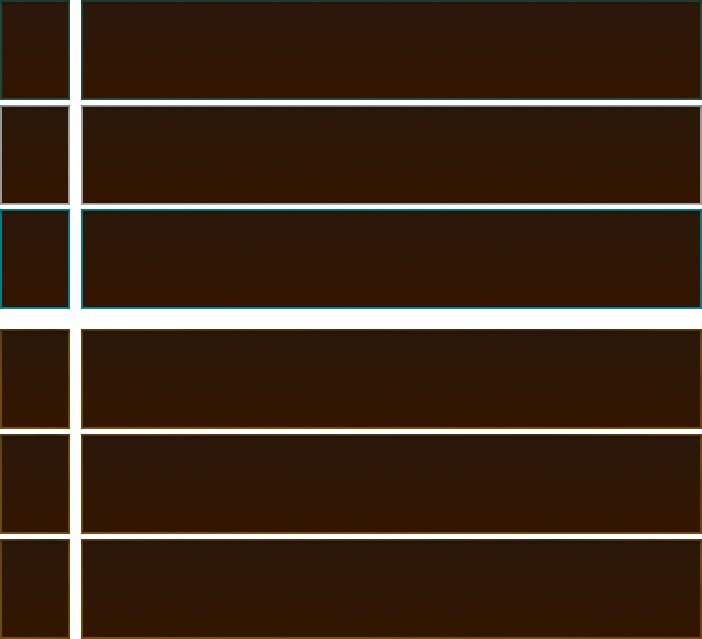
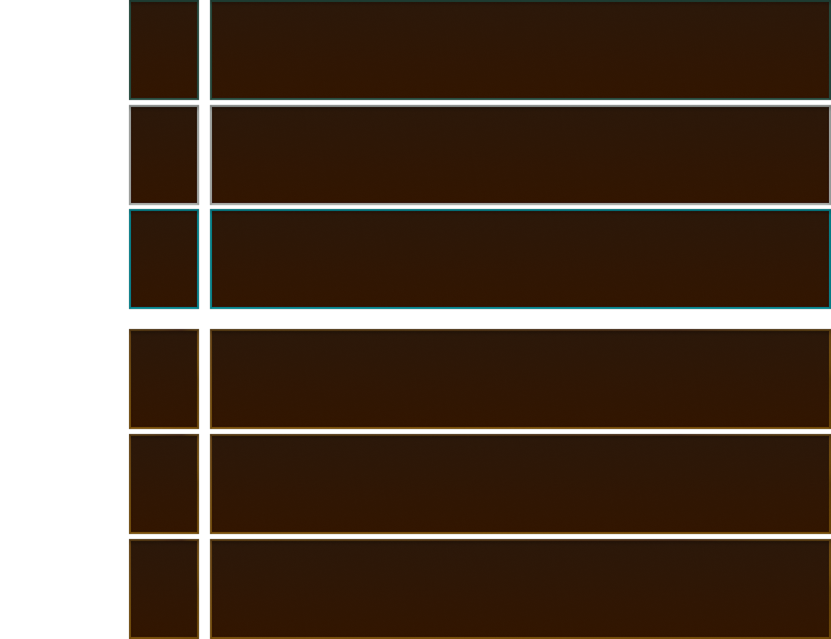
Добавил поддержку погод и маркеров урона за каждый ряд

diff --git a/src/pages/styles.css b/src/pages/styles.css
@@ -102,33 +102,33 @@ body {
     gap: 50px;
 }
 
-.gameField2 {
+
+.gameField3 {
     display: grid;
-    grid-template-columns: 1fr max-content 1fr max-content 1fr;
-    grid-template-rows: 36fr max-content 77fr max-content 77fr max-content 93fr max-content 77fr max-content 77fr max-content 36fr;
-    width: 128px;
+    grid-template-columns: 19px 24px 12px 54px 20px 70px 11px 1fr;
+    grid-template-rows: 100px 5px 100px 5px 100px 20px 100px 5px 100px 5px 100px;
+    background-image: url("../assets/content/BattleContent2.png");
+    width: 831px;
     height: 639px;
     grid-template-areas:
-    ". ........ . ....... ."
-    ". weather1 . marker1 ."
-    ". ........ . ....... ."
-    ". weather2 . marker2 ."
-    ". ........ . ....... ."
-    ". weather3 . marker3 ."
-    ". ........ . ....... ."
-    ". weather4 . marker4 ."
-    ". ........ . ....... ."
-    ". weather5 . marker5 ."
-    ". ........ . ....... ."
-    ". weather6 . marker6 ."
-    ". ........ . ....... .";
+    ". weather1 . marker1 . leader1 . cards1"
+    ". ........ . ....... . ....... . ......"
+    ". weather2 . marker2 . leader2 . cards2"
+    ". ........ . ....... . ....... . ......"
+    ". weather3 . marker3 . leader3 . cards3"
+    ". ........ . ....... . ....... . ......"
+    ". weather4 . marker4 . leader4 . cards4"
+    ". ........ . ....... . ....... . ......"
+    ". weather5 . marker5 . leader5 . cards5"
+    ". ........ . ....... . ....... . ......"
+    ". weather6 . marker6 . leader6 . cards6"
 }
-.gameMarkerEnemysiege,
-.gameMarkerEnemyranged,
-.gameMarkerEnemymelee,
-.gameMarkerAllymelee,
-.gameMarkerAllyranged,
-.gameMarkerAllysiege {
+.gameMarker1,
+.gameMarker2,
+.gameMarker3,
+.gameMarker4,
+.gameMarker5,
+.gameMarker6 {
     height: 28px;
     width: 44px;
     display: flex;
@@ -142,32 +142,32 @@ body {
     font-weight: 500;
     padding: 0px 10px 0px 0px;
 }
-.gameMarkerEnemysiege,
-.gameMarkerEnemyranged,
-.gameMarkerEnemymelee {
+.gameMarker1,
+.gameMarker2,
+.gameMarker3 {
     background-image: url("../assets/home/BattleIcon2.svg");
 }
-.gameMarkerAllymelee,
-.gameMarkerAllyranged,
-.gameMarkerAllysiege {
+.gameMarker4,
+.gameMarker5,
+.gameMarker6 {
     background-image: url("../assets/home/BattleIcon1.svg");
 }
-.gameMarkerEnemysiege {
+.gameMarker1 {
     grid-area: marker1;
 }
-.gameMarkerEnemyranged {
+.gameMarker2 {
     grid-area: marker2;
 }
-.gameMarkerEnemymelee {
+.gameMarker3 {
     grid-area: marker3;
 }
-.gameMarkerAllymelee {
+.gameMarker4 {
     grid-area: marker4;
 }
-.gameMarkerAllyranged {
+.gameMarker5 {
     grid-area: marker5;
 }
-.gameMarkerAllysiege {
+.gameMarker6 {
     grid-area: marker6;
 }
 .weather1,
@@ -196,27 +196,6 @@ body {
 }
 .weather6{
     grid-area: weather6;
-}
-
-.gameField3 {
-    display: grid;
-    grid-template-columns: 70px 11px 1fr;
-    grid-template-rows: 100px 5px 100px 5px 100px 20px 100px 5px 100px 5px 100px;
-    background-image: url("../assets/content/BattleContent2.png");
-    width: 702px;
-    height: 639px;
-    grid-template-areas:
-    "leader1 . cards1"
-    "....... . ......"
-    "leader2 . cards2"
-    "....... . ......"
-    "leader3 . cards3"
-    "....... . ......"
-    "leader4 . cards4"
-    "....... . ......"
-    "leader5 . cards5"
-    "....... . ......"
-    "leader6 . cards6"
 }
 .cardInRow {
     width: 67px;

diff --git a/src/components/Board/Board.tsx b/src/components/Board/Board.tsx
@@ -1,5 +1,11 @@
-import type { RowType, Board as BoardType, Card as CardType } from "../../type";
+import type { RowType,WeatherType, Board as BoardType, Card as CardType } from "../../type";
 import { Card } from "../Card/Card";
+
+import frost from "../../assets/home/frost.svg"
+import rain from "../../assets/home/rain.svg"
+import haze from "../../assets/home/haze.svg"
+import clear from "../../assets/home/clear.svg"
+
 
 interface GwentBoardProps {
   className?: string;
@@ -14,22 +20,33 @@ const rowLabels: Record<RowType, string> = {
   siege: "Осада",
 };
 
+const weatherLabels: Record<WeatherType, string> = {
+  frost: "Мороз",
+  haze: "Туман",
+  rain: "Дождь",
+  clear: "Ясно"
+};
+
 export function Board({className, board, selectedCard, onPlayerRowClick }: GwentBoardProps) {
   const opponentRows: RowType[] = ["siege", "ranged", "melee"];
   const playerRows: RowType[] = ["melee", "ranged", "siege"];
 
   return (
     <div className={className}>
-      {opponentRows.map((row) => (
+      {opponentRows.map((row,index) => (
         <GwentBoardRow 
           className={`enemies${row}`}
+          index={index+1}
+          weather={haze}
           key={`opponent-${row}`} 
           title={`Враг: ${rowLabels[row]}`} 
           cards={board.opponent[row]} />
       ))}
-      {playerRows.map((row) => (
+      {playerRows.map((row,index) => (
         <GwentBoardRow
           className={`allies${row}`}
+          index={index+4}
+          weather={frost}
           key={`player-${row}`}
           title={`Игрок: ${rowLabels[row]}`}
           cards={board.player[row]}
@@ -43,22 +60,28 @@ export function Board({className, board, selectedCard, onPlayerRowClick }: Gwent
 
 interface GwentBoardRowProps {
   className?: string;
+  index?: number;
+  weather?: string;
   title: string;
   cards: CardType[];
   isActive?: boolean;
   onClick?: () => void;
 }
 
-function GwentBoardRow({className, title, cards, isActive = false, onClick }: GwentBoardRowProps) {
+function GwentBoardRow({className,index,weather=clear, title, cards, isActive = false, onClick }: GwentBoardRowProps) {
   const totalPower = cards.reduce((sum, card) => sum + card.power, 0);
 
   return (
-    <div className={`${className} ${isActive ? "activeRow" : ""}`} onClick={onClick}>
-        {cards.length === 0 ? null : (
-          cards.map((card) => (
-              <Card className="cardInRow" key={card.id} card={card} isDisabled />
-          ))
-        )}
-    </div>
+    <>
+      <p className={`gameMarker${index}`}>{totalPower}</p>
+      <img className={`weather${index}`} src={weather}/>
+      <div className={`${className} ${isActive ? "activeRow" : ""}`} onClick={onClick}>
+          {cards.length === 0 ? null : (
+            cards.map((card) => (
+                <Card className="cardInRow" key={card.id} card={card} isDisabled />
+            ))
+          )}
+      </div>
+    </>
   );
 }

diff --git a/src/pages/Game.tsx b/src/pages/Game.tsx
@@ -9,10 +9,6 @@ import { useNavigate } from "react-router-dom";
 
 import leftPart from "../assets/content/BattleContent1.png";
 import pattern6 from "../assets/home/Pattern6.svg";
-import frost from "../assets/home/frost.svg"
-import rain from "../assets/home/rain.svg"
-import haze from "../assets/home/haze.svg"
-import clear from "../assets/home/clear.svg"
 
 const ALL_CARDS: CardType[] = [
   { id: "1", name: "Geralt", power: 15, row: "melee" },
@@ -204,20 +200,6 @@ export function Game() {
 
       <div className="contentHorizontal" style={{'--gap-x':'0'} as React.CSSProperties}>
         <img src={leftPart} />
-        <div className="gameField2" style={{ '--height': '639px','width': '130px' } as React.CSSProperties}>
-          <p className="gameMarkerEnemysiege">1</p>
-          <img className="weather1" src={frost}/>
-          <p className="gameMarkerEnemyranged">2</p>
-          <img className="weather2" src={haze}/>
-          <p className="gameMarkerEnemymelee">3</p>
-          <img className="weather3" src={rain}/>
-          <p className="gameMarkerAllymelee">3</p>
-          <img className="weather4" src={clear}/>
-          <p className="gameMarkerAllyranged">2</p>
-          <img className="weather5" src={frost}/>
-          <p className="gameMarkerAllysiege">1</p>
-          <img className="weather6" src={haze}/>
-        </div>
         <Board className='gameField3' board={board} selectedCard={selectedCard} onPlayerRowClick={handlePlayerRowClick} />
         <img src={pattern6} />
         <Hand className="gameField4" cards={hand} selectedCardId={selectedCardId} onCardClick={handleCardClick} />

diff --git a/src/type.ts b/src/type.ts
@@ -1,4 +1,5 @@
 export type RowType = "melee" | "ranged" | "siege";
+export type WeatherType = "frost" | "haze" | "rain" | "clear"
 
 export interface Card {
   id: string;
